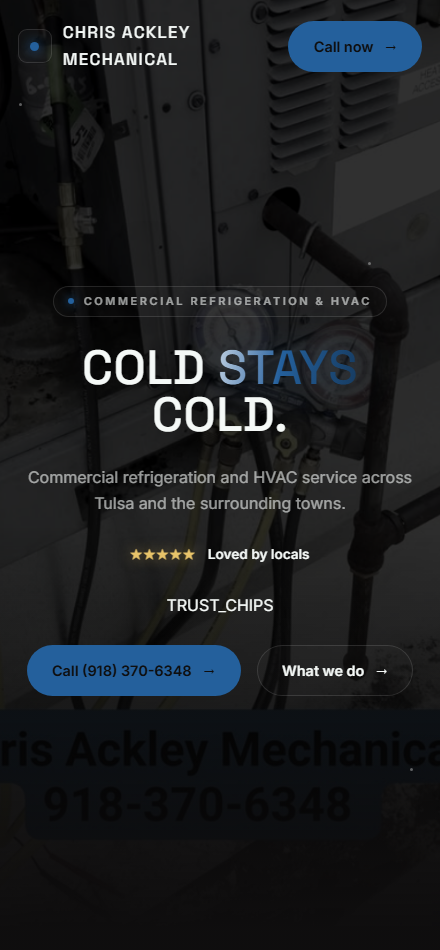
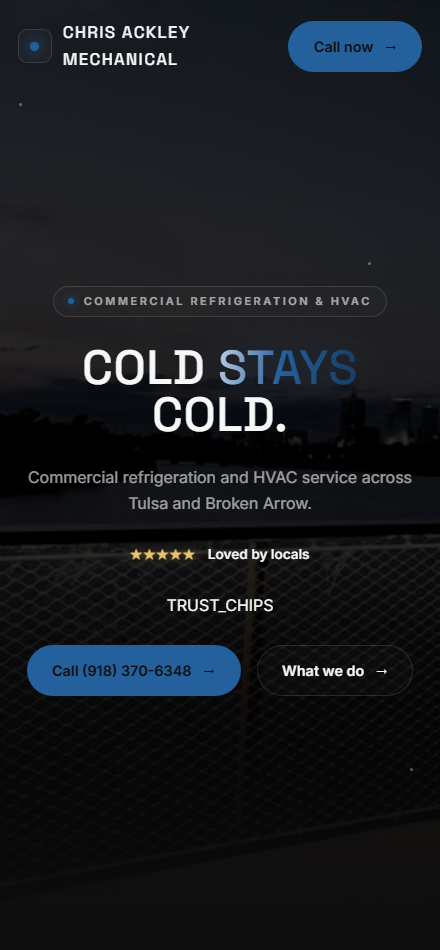
Publish demo: chris-ackley-mechanical

diff --git a/chris-ackley-mechanical/index.html b/chris-ackley-mechanical/index.html
@@ -5,7 +5,7 @@
 <meta charset="UTF-8">
 <meta name="viewport" content="width=device-width, initial-scale=1.0">
 <title>Chris Ackley Mechanical — Broken Arrow</title>
-<meta name="description" content="Chris Ackley Mechanical — Commercial refrigeration and HVAC service across Tulsa and Broken Arrow. Broken Arrow. Call (918) 370-6348.">
+<meta name="description" content="Chris Ackley Mechanical — Commercial refrigeration and HVAC service across Broken Arrow and greater Tulsa. Broken Arrow. Call (918) 370-6348.">
 <link rel="preconnect" href="https://fonts.googleapis.com">
 <link rel="preconnect" href="https://fonts.gstatic.com" crossorigin>
 <link href="https://fonts.googleapis.com/css2?family=Fraunces:opsz,wght@9..144,500;9..144,600&family=Playfair+Display:wght@600;700&family=Space+Grotesk:wght@500;600;700&family=Inter:wght@300;400;500;600&display=swap" rel="stylesheet">
@@ -316,7 +316,7 @@ footer.site a:hover{text-decoration:underline}
 </nav>
 
 <header class="hero" id="top">
-  <img class="hero-bg" src="photos/p6.jpg" alt="Chris Ackley Mechanical" style="object-position:16% 83%">
+  <img class="hero-bg" src="photos/p6.jpg" alt="Chris Ackley Mechanical" style="object-position:50% 83%">
   <div class="scrim" aria-hidden="true"></div>
   <div class="glow-field" aria-hidden="true">
     <div class="glow g1" data-depth="0.14"></div>
@@ -331,7 +331,7 @@ footer.site a:hover{text-decoration:underline}
   <div class="hero-inner wrap">
     <span class="pill-badge" data-reveal>Commercial Refrigeration & Hvac</span>
     <h1><span class="w" style="animation-delay:0.12s">Cold</span> <span class="w" style="animation-delay:0.24s">stays</span> <span class="w" style="animation-delay:0.36s">cold.</span></h1>
-    <p class="lede" data-reveal>Commercial refrigeration and HVAC service across Tulsa and Broken Arrow.</p>
+    <p class="lede" data-reveal>Commercial refrigeration and HVAC service across Broken Arrow and greater Tulsa.</p>
     <div class="rating" data-reveal><span class="stars" aria-label="Five stars">&#9733;&#9733;&#9733;&#9733;&#9733;</span> Loved by locals</div>
     <div class="trust stagger" data-stagger>TRUST_CHIPS</div>
     <div class="cta-row" data-reveal>
@@ -342,7 +342,7 @@ footer.site a:hover{text-decoration:underline}
   <div class="scroll-cue" aria-hidden="true">Scroll on down<span class="pulse"></span></div>
 </header>
 
-<div class="marquee" aria-hidden="true"><div class="track"><span>15 YEARS EXPERIENCE</span><b>&#9679;</b><span>COMMERCIAL HVACR</span><b>&#9679;</b><span>ICE MACHINE SPECIALIST</span><b>&#9679;</b><span>TULSA & BROKEN ARROW</span><b>&#9679;</b><span>15 YEARS EXPERIENCE</span><b>&#9679;</b><span>COMMERCIAL HVACR</span><b>&#9679;</b><span>ICE MACHINE SPECIALIST</span><b>&#9679;</b><span>TULSA & BROKEN ARROW</span><b>&#9679;</b></div></div>
+<div class="marquee" aria-hidden="true"><div class="track"><span>15 YEARS IN THE TRADE</span><b>&#9679;</b><span>COMMERCIAL HVACR</span><b>&#9679;</b><span>ICE MACHINE SPECIALIST</span><b>&#9679;</b><span>BROKEN ARROW & TULSA</span><b>&#9679;</b><span>15 YEARS IN THE TRADE</span><b>&#9679;</b><span>COMMERCIAL HVACR</span><b>&#9679;</b><span>ICE MACHINE SPECIALIST</span><b>&#9679;</b><span>BROKEN ARROW & TULSA</span><b>&#9679;</b></div></div>
 
 <div class="stats"><div class="row wrap stagger" data-stagger><div><div class="n">Local</div><div class="l">owned &amp; operated</div></div><div><div class="n">5&#9733;</div><div class="l">service you can count on</div></div><div><div class="n">Broken Arrow</div><div class="l">&amp; surrounding area</div></div><div><div class="n">Fast</div><div class="l">friendly &amp; on-time</div></div></div></div>
 
@@ -351,12 +351,12 @@ footer.site a:hover{text-decoration:underline}
     <div data-reveal>
       <span class="eyebrow">Commercial Refrigeration & Hvac</span>
       <h2>What we <span class="serif-it glow-word">do.</span></h2>
-      <p class="lead">Chris Ackley Mechanical has spent 15 years keeping commercial coolers, freezers and ice machines running for businesses around Tulsa. Walk-ins, reach-ins, ice machines, heating and air — if it holds a temperature and your business depends on it, that's the work. Broken Arrow, Bixby, Sapulpa, Glenpool and Tulsa.</p>
+      <p class="lead">Chris Ackley Mechanical has spent 15 years keeping commercial coolers, freezers and ice machines running for businesses around Broken Arrow, Bixby, Sapulpa, Glenpool and Tulsa. Walk-ins, reach-ins, ice machines, heating and air — if it's the equipment your business can't operate without, that's the work. One phone call gets you the guy who actually does the job.</p>
     </div>
-    <div class="grid stagger" data-stagger><div class="card"><span class="num">01/</span><span class="pill">most called</span><h3>Walk-In Coolers & Freezers</h3><p>Diagnostics, repair and service on walk-in boxes so your inventory never sits in the danger zone.</p></div>
-<div class="card"><span class="num">02/</span><span class="pill">specialty</span><h3>Commercial Ice Machines</h3><p>Repair, cleaning and troubleshooting on commercial ice machines — a specialty, not a sideline.</p></div>
-<div class="card"><span class="num">03/</span><h3>Reach-In Refrigeration</h3><p>Prep tables, merchandisers and reach-in units brought back to holding temp and kept there.</p></div>
-<div class="card"><span class="num">04/</span><span class="pill">year round</span><h3>Commercial HVAC</h3><p>Heating, ventilation and air conditioning service for restaurants, shops and small commercial buildings.</p></div></div>
+    <div class="grid stagger" data-stagger><div class="card"><span class="num">01/</span><span class="pill">most called</span><h3>Walk-In Coolers & Freezers</h3><p>Service and repair on walk-in boxes so your inventory never sits in the danger zone.</p></div>
+<div class="card"><span class="num">02/</span><span class="pill">specialty</span><h3>Commercial Ice Machines</h3><p>Repair, cleaning and diagnostics on commercial ice machines — a specialty here, not a sideline.</p></div>
+<div class="card"><span class="num">03/</span><h3>Reach-In Refrigeration</h3><p>Prep tables, merchandisers and reach-in units diagnosed and repaired on site.</p></div>
+<div class="card"><span class="num">04/</span><span class="pill">year-round</span><h3>Commercial HVAC</h3><p>Heating, ventilation and air conditioning service for restaurants, shops and offices.</p></div></div>
   </div>
 </section>
 
@@ -422,21 +422,18 @@ footer.site a:hover{text-decoration:underline}
     <div data-reveal>
       <span class="eyebrow">About us</span>
       <h2>A local name you can trust</h2>
-      <p class="lead">Chris Ackley Mechanical has spent 15 years keeping commercial coolers, freezers and ice machines running for businesses around Tulsa. Walk-ins, reach-ins, ice machines, heating and air — if it holds a temperature and your business depends on it, that's the work. Broken Arrow, Bixby, Sapulpa, Glenpool and Tulsa.</p>
-      <div class="quote">When the walk-in goes down, you don't need a quote — you need a truck.</div>
+      <p class="lead">Chris Ackley Mechanical has spent 15 years keeping commercial coolers, freezers and ice machines running for businesses around Broken Arrow, Bixby, Sapulpa, Glenpool and Tulsa. Walk-ins, reach-ins, ice machines, heating and air — if it's the equipment your business can't operate without, that's the work. One phone call gets you the guy who actually does the job.</p>
+      <div class="quote">When a walk-in goes down, you don't need a callback next week.</div>
       <div class="cta-row" style="justify-content:flex-start;margin-top:1.8rem">
         <a class="btn solid" href="tel:9183706348">Talk to us <span class="arr">&rarr;</span></a>
       </div>
     </div>
-    <div class="photo curtain" data-curtain><img src="photos/p3.jpg" loading="lazy" alt="Chris Ackley Mechanical" style="object-position:50% 83%"></div>
+    <div class="photo curtain" data-curtain><img src="photos/p6.jpg" loading="lazy" alt="Chris Ackley Mechanical" style="object-position:50% 83%"></div>
   </div>
 </section>
 
-  <section class="alt" id="work"><div class="wrap"><div class="eyebrow">Selected work</div><h2>A look at what we do</h2><div class="gallery"><figure class="shot"><img src="photos/p3.jpg" loading="lazy" alt="Chris Ackley Mechanical" style="object-position:50% 83%"><figcaption class="cap"><b>01</b>Recent work</figcaption></figure>
-<figure class="shot"><img src="photos/p5.jpg" loading="lazy" alt="Chris Ackley Mechanical" style="object-position:50% 83%"><figcaption class="cap"><b>02</b>On the job</figcaption></figure>
-<figure class="shot"><img src="photos/p4.jpg" loading="lazy" alt="Chris Ackley Mechanical" style="object-position:50% 50%"><figcaption class="cap"><b>03</b>Our team</figcaption></figure>
-<figure class="shot social"><img src="photos/p1.jpg" loading="lazy" alt="Chris Ackley Mechanical" style="object-position:50% 50%"><figcaption class="cap"><b>04</b>Behind the scenes</figcaption></figure>
-<figure class="shot social"><img src="photos/p2.jpg" loading="lazy" alt="Chris Ackley Mechanical" style="object-position:50% 50%"><figcaption class="cap"><b>05</b>In the community</figcaption></figure></div></div></section>
+  <section class="alt" id="work"><div class="wrap"><div class="eyebrow">Selected work</div><h2>A look at what we do</h2><div class="gallery"><figure class="shot social"><img src="photos/p4.jpg" loading="lazy" alt="Chris Ackley Mechanical" style="object-position:50% 50%"><figcaption class="cap"><b>01</b>Recent work</figcaption></figure>
+<figure class="shot social"><img src="photos/p5.jpg" loading="lazy" alt="Chris Ackley Mechanical" style="object-position:50% 50%"><figcaption class="cap"><b>02</b>On the job</figcaption></figure></div></div></section>
 
 <section class="alt" id="reviews">
   <div class="wrap">
@@ -458,7 +455,7 @@ footer.site a:hover{text-decoration:underline}
     </div>
     <div class="faq" data-reveal><details><summary>Do you work on residential systems?</summary><p>The focus is commercial HVACR — coolers, freezers, ice machines and commercial heating and air.</p></details>
 <details><summary>What areas do you cover?</summary><p>Broken Arrow, Bixby, Sapulpa, Glenpool, Tulsa and the surrounding area.</p></details>
-<details><summary>My cooler is going warm — how fast can you get out?</summary><p>Call (918) 370-6348 and we'll get you scheduled as quick as the route allows.</p></details></div>
+<details><summary>How do I get on the schedule?</summary><p>Call or text (918) 370-6348, or email cackleymechanical@gmail.com with what your equipment is doing.</p></details></div>
   </div>
 </section>
 
@@ -466,7 +463,7 @@ footer.site a:hover{text-decoration:underline}
   <div class="wrap" data-reveal>
     <span class="eyebrow">Get started</span>
     <h2>Ready when you are.</h2>
-    <p>Commercial refrigeration and HVAC service across Tulsa and Broken Arrow.</p>
+    <p>Commercial refrigeration and HVAC service across Broken Arrow and greater Tulsa.</p>
     <div class="cta-row">
       <a class="btn solid" href="tel:9183706348">Call (918) 370-6348 <span class="arr">&rarr;</span></a>
       <a class="btn line" href="https://www.google.com/maps/search/?api=1&query=Chris%20Ackley%20Mechanical%20Broken%20Arrow" target="_blank" rel="noopener">Get directions <span class="arr">&rarr;</span></a>
